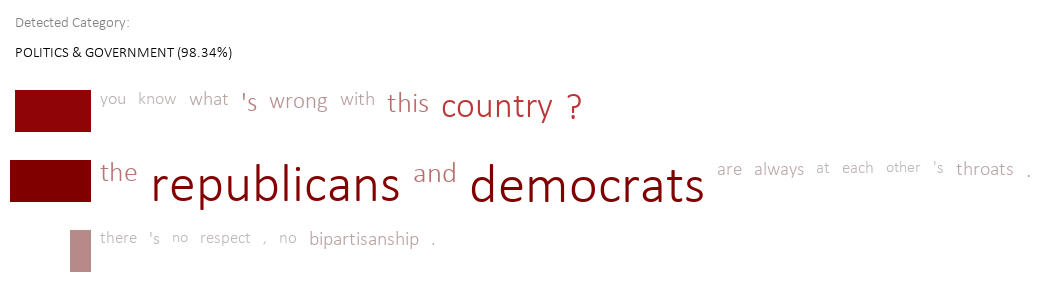
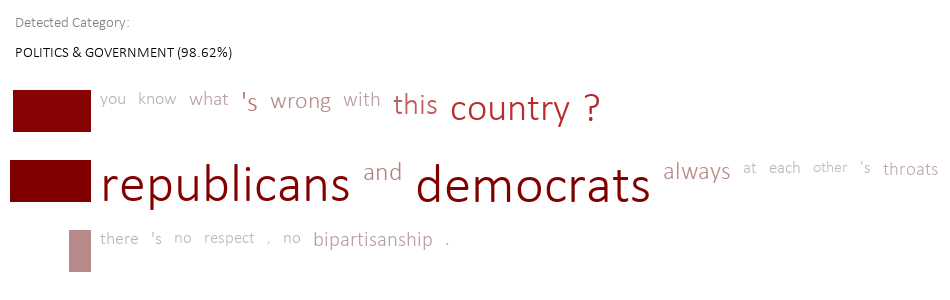
changes

diff --git a/classify.py b/classify.py
@@ -87,13 +87,11 @@ def visualize_attention(doc, scores, word_alphas, sentence_alphas, words_in_each
     :param sentence_alphas: attention weights of sentences, a tensor of size (n_sentences)
     :param words_in_each_sentence: sentence lengths, a tensor of size (n_sentences)
     """
-    print(sentence_alphas)
     # Find best prediction
     score, prediction = scores.max(dim=0)
     prediction = '{category} ({score:.2f}%)'.format(category=rev_label_map[prediction.item()], score=score.item() * 100)
 
     # For each word, find it's effective importance (sentence alpha * word alpha)
-    print(words_in_each_sentence)
     alphas = (sentence_alphas.unsqueeze(1) * word_alphas * words_in_each_sentence.unsqueeze(
         1).float() / words_in_each_sentence.max().float())
     # alphas = word_alphas * words_in_each_sentence.unsqueeze(1).float() / words_in_each_sentence.max().float()
@@ -185,10 +183,11 @@ def visualize_attention(doc, scores, word_alphas, sentence_alphas, words_in_each
     img.show()
 
 
+
 if __name__ == '__main__':
     document = 'How do computers work? I have a CPU I want to use. But my keyboard and motherboard do not help.\n\n You can just google how computers work. Honestly, its easy.'
-    document = 'But think about it! It\'s so cool. Math is really useful in astronomy. Physicists use mathematical theorems to explore the mysteries of the universe.'
+    document = 'But think about it! It\'s so cool. Math is really useful in astronomy. Physicists use math theorems to explore the mysteries of the universe.'
     document = "I think I'm falling sick. There was some indigestion at first. But now a fever is beginning to take hold."
-    document = "I want to tell you something important. It's time you educated yourself about the stock market and investment funds. Make some money so you can buy yourself some yogurt."
-    document = "You know what's wrong with this country? The republicans and democrats are always at each other's throats. There's no respect, no bipartisanship."
+    document = "I want to tell you something important. Get into the stock market and investment funds. Make some money so you can buy yourself some yogurt."
+    document = "You know what's wrong with this country? republicans and democrats always at each other's throats\n There's no respect, no bipartisanship."
     visualize_attention(*classify(document))

diff --git a/README.md b/README.md
@@ -14,25 +14,31 @@ I'm using `PyTorch 0.4` in `Python 3.6`.
 
 [***Objective***](https://github.com/sgrvinod/a-PyTorch-Tutorial-to-Text-Classification#objective)
 
-[***Concepts***]()
+[***Concepts***](https://github.com/sgrvinod/a-PyTorch-Tutorial-to-Text-Classification#tutorial-in-progress)
 
-[***Overview***]()
+[***Overview***](https://github.com/sgrvinod/a-PyTorch-Tutorial-to-Text-Classification#tutorial-in-progress)
 
-[***Implementation***]()
+[***Implementation***](https://github.com/sgrvinod/a-PyTorch-Tutorial-to-Text-Classification#tutorial-in-progress)
 
-[***Training***]()
+[***Training***](https://github.com/sgrvinod/a-PyTorch-Tutorial-to-Text-Classification#tutorial-in-progress)
 
-[***Inference***]()
+[***Inference***](https://github.com/sgrvinod/a-PyTorch-Tutorial-to-Text-Classification#tutorial-in-progress)
 
-[***Frequently Asked Questions***]()
+[***Frequently Asked Questions***](https://github.com/sgrvinod/a-PyTorch-Tutorial-to-Text-Classification#tutorial-in-progress)
 
 # Objective
 
 **To build a model that can classify a text document as one of several categories.**
 
-Text classification is among the most ubiquitous and useful applications of neural networks. In one form or another, it is the foundation of natural language understanding systems. Depending on the data available, the methods may vary – from naive combinations of word embeddings, to text encoders pre-trained elsewhere on other tasks, to full-fledged classifiers that are built for this specific purpose from the ground up. In this tutorial, we will consider this last type, made possibly by an abundance of labeled data.
+Text classification is among the most ubiquitous and useful applications of neural networks. In one form or another, it is the foundation of natural language understanding systems.
 
-We will be implementing the [Hierarchial Attention Network (HAN)](https://www.cs.cmu.edu/~hovy/papers/16HLT-hierarchical-attention-networks.pdf), one of the more interesting and interpretable text classification models. This model will not only classify your document, but also _choose_ specific parts of the text – both sentences and individual words – that it thought were most important.
+Depending on the data available, the methods may vary – from naive combinations of word embeddings, to text encoders pre-trained elsewhere on other tasks, to full-fledged classifiers that are built for this specific purpose from the ground up.
+
+In this tutorial, we will consider this last type, made possibly by an abundance of labeled data.
+
+We will be implementing the [Hierarchial Attention Network (HAN)](https://www.cs.cmu.edu/~hovy/papers/16HLT-hierarchical-attention-networks.pdf). You may have heard of it – it's one of the more interesting and interpretable text classification models.
+
+This model will not only classify your document, but also _choose_ specific parts of the text – both sentences and individual words – that it thinks are most important.
 
 Here are some results on texts not seen during training or validation:
 
@@ -65,4 +71,4 @@ Here are some results on texts not seen during training or validation:
 <img src="./img/incomplete.jpg">
 </p>
 
-I am still writing this tutorial. In the meantime, you could look at or try the code – it works!
+I am still writing this tutorial. In the meantime, you could look at the code – it works!
